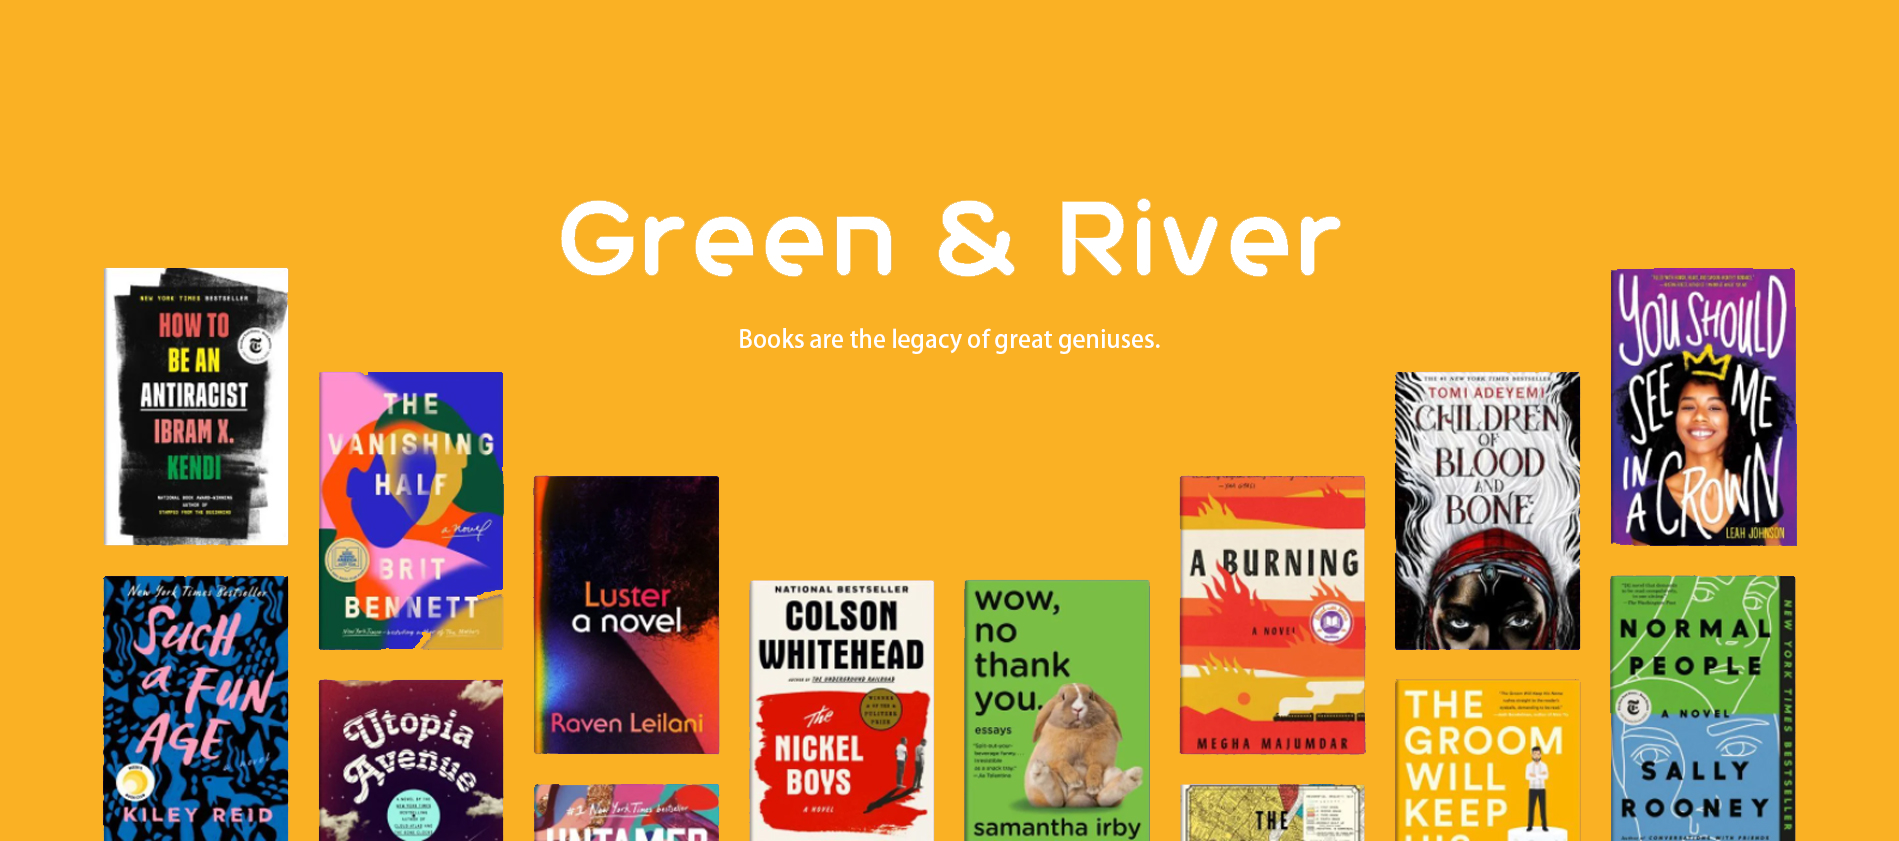
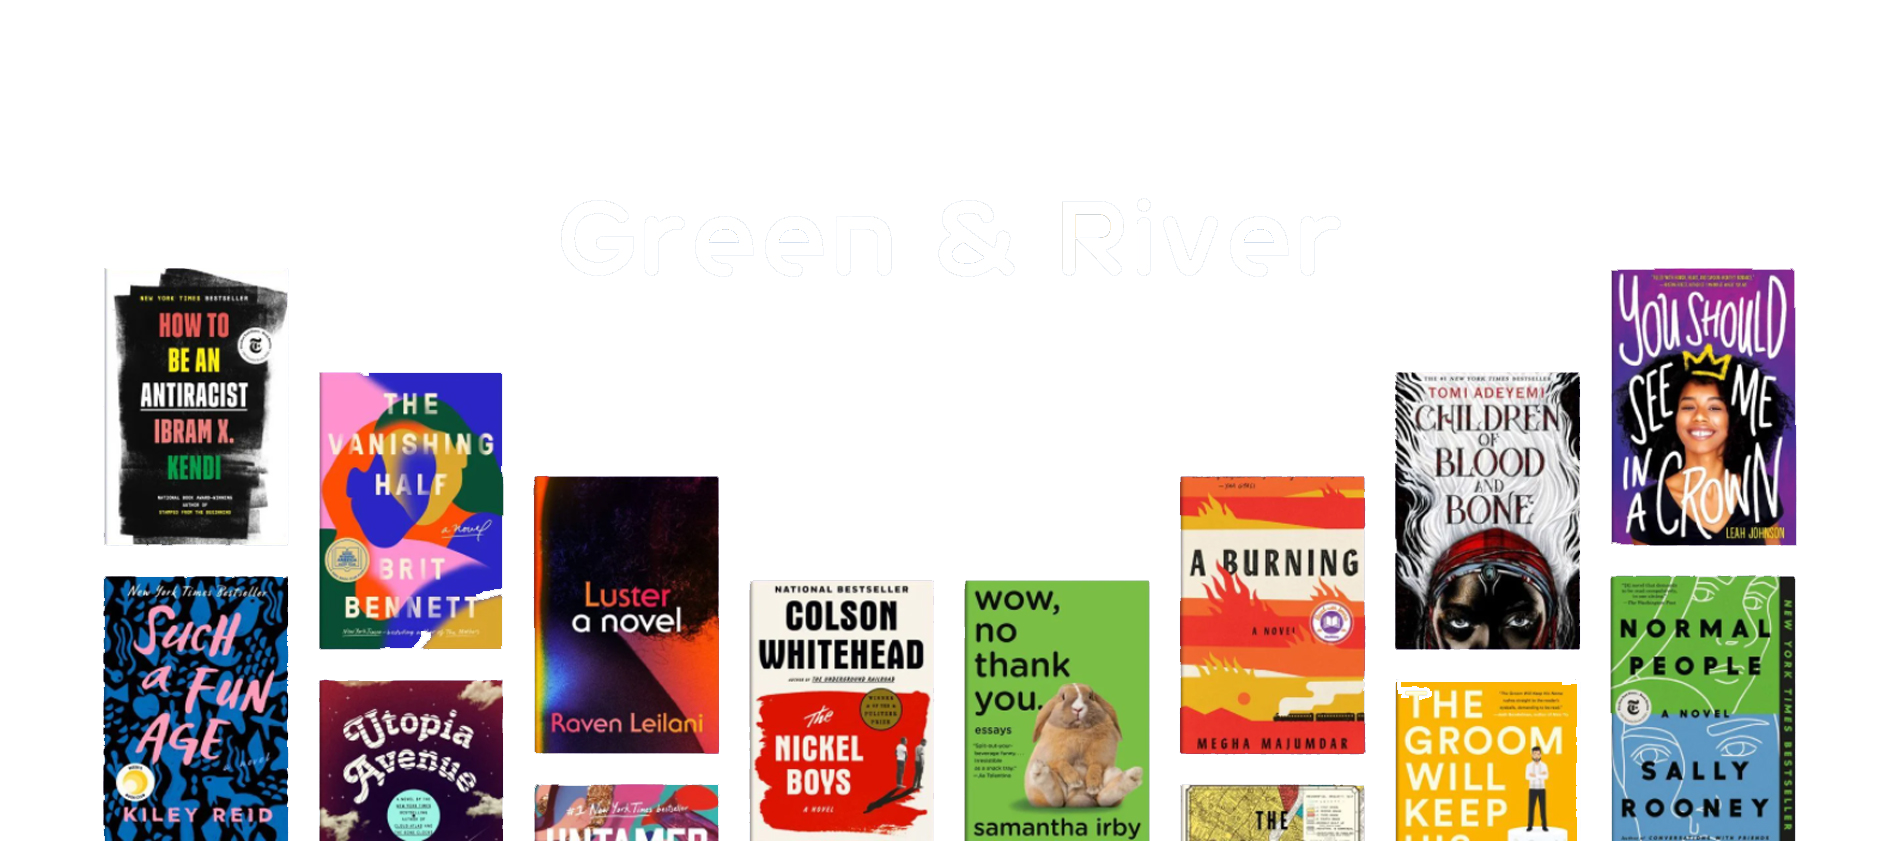
little

diff --git a/public/css/app.css b/public/css/app.css
@@ -74,6 +74,26 @@ color: aqua;
   left:0px;
   padding-top: 20px;
 }
+
+.icon {
+  padding: 10px;
+  background: dodgerblue;
+  color: white;
+  min-width: 50px;
+  text-align: center;
+}
+
+.input-field {
+  width: 100%;
+  padding: 20px;
+  margin-top: 14px;
+  outline: none;
+}
+
+.input-field:focus {
+  border: 2px solid dodgerblue;
+}
+
  .fa {
   padding: 5px;
   font-size: 30px;
@@ -81,18 +101,24 @@ color: aqua;
   text-align: center;
   text-decoration: none;
   margin: 5px 2px;
-  color:#fab124;
+
 }
 .fa-search{
   display: row;
 }
-.fa-instagram {
- 
-  color: #fab124;
+.fa-twitter{
+color:#6faddf;
+}
+
+.fa-google-plus{
+color:#ffffff;
+}
+.fa-youtube{
+color:#d0211c;
 }
 .fa-facebook {
  
-  color: #fab124;
+color:#3e58ee;
 }
 :root {
   --blue: #3490dc;
@@ -152,6 +178,7 @@ section {
 }
 
 body {
+ 
   margin: 0;
   font-family: "Nunito", sans-serif;
   font-size: 0.9rem;
@@ -159,9 +186,12 @@ body {
   line-height: 1.6;
   color: #212529;
   text-align: left;
-  background-color: #fab124;  
+  background: linear-gradient(to right, cyan, blue);
+  color:transparent;
  
 }
+
+
 
 [tabindex="-1"]:focus:not(:focus-visible) {
   outline: 0 !important;
@@ -661,6 +691,7 @@ pre code {
 }
 
 
+
 .container,
 .container-fluid,
 .container-xl,
@@ -672,6 +703,7 @@ pre code {
   padding-left: 15px;
   margin-right: auto;
   margin-left: auto;
+  
 }
 
 @media (min-width: 576px) {
@@ -4604,6 +4636,7 @@ input[type=button].btn-block {
   align-items: center;
   justify-content: space-between;
   padding: 0.5rem 1rem;
+  
 }
 
 .navbar .container,
@@ -4616,16 +4649,18 @@ input[type=button].btn-block {
   flex-wrap: wrap;
   align-items: center;
   justify-content: space-between;
+  
 }
 
 .navbar-brand {
   display: inline-block;
   padding-top: 0.32rem;
-  padding-bottom: 0.32rem;
+  padding-bottom: 0.25rem;
   margin-right: 1rem;
   font-size: 1.125rem;
   line-height: inherit;
   white-space: nowrap;
+  
 }
 
 .navbar-brand:hover,
@@ -4644,6 +4679,7 @@ input[type=button].btn-block {
 .navbar-nav .nav-link {
   padding-right: 0;
   padding-left: 0;
+  font-size: 20px;
 }
 
 .navbar-nav .dropdown-menu {
@@ -8763,7 +8799,7 @@ button.bg-dark:focus {
 
 .pb-4,
 .py-4 {
-  padding-bottom: 1.5rem !important;
+  padding-bottom: 0.2rem !important;
 }
 
 .pl-4,

diff --git a/public/css/product.css b/public/css/product.css
@@ -6,7 +6,7 @@ body {
 
 	font-size: 20px;
 	line-height: 1.4em; 
-	background-color: #fab124; 
+	background-color: #4287f5; 
 
 	background-position: top;
 }
@@ -53,7 +53,7 @@ table, th{
   }
 
   .bb{
-	  background-color: #fab124;
+	  background-color: #4287f5;
   }
 
   

diff --git a/resources/views/auth/login.blade.php b/resources/views/auth/login.blade.php
@@ -11,12 +11,13 @@
                     <form method="POST" action="{{ route('login') }}">
                         @csrf
 
-                        <div class="form-group row">
-                            <label for="email" class="col-md-4 col-form-label text-md-right">{{ __('E-Mail Address') }}</label>
+                        <div class="form-group row input-container">
+                            <label for="email" class="col-md-4 col-form-label text-md-right"><i class="fa fa-user icon"></i></label>
 
-                            <div class="col-md-6">
-                                <input id="email" type="email" class="form-control @error('email') is-invalid @enderror" name="email" value="{{ old('email') }}" required autocomplete="email" autofocus>
-
+                            <div class="col-md-6 input-container">
+                               
+                            <input id="email" class="input-field form-control @error('email') is-invalid @enderror" type="email" placeholder="Email Address" name="email" value="{{ old('email') }}" required autocomplete="email" autofocus>
+                          
                                 @error('email')
                                     <span class="invalid-feedback" role="alert">
                                         <strong>{{ $message }}</strong>
@@ -25,12 +26,13 @@
                             </div>
                         </div>
 
-                        <div class="form-group row">
-                            <label for="password" class="col-md-4 col-form-label text-md-right">{{ __('Password') }}</label>
-
-                            <div class="col-md-6">
-                                <input id="password" type="password" class="form-control @error('password') is-invalid @enderror" name="password" required autocomplete="current-password">
-
+                        <div class="form-group row input-container">
+                            <label for="password" class="col-md-4 col-form-label text-md-right"><i class="fa fa-key icon"></i></label>
+                            
+   
+                            <div class="col-md-6 input-container">
+      
+                                <input id="password" class="input-field form-control @error('password') is-invalid @enderror" type="password" placeholder="Password" name="password" required autocomplete="current-password">
                                 @error('password')
                                     <span class="invalid-feedback" role="alert">
                                         <strong>{{ $message }}</strong>

diff --git a/resources/views/layouts/app.blade.php b/resources/views/layouts/app.blade.php
@@ -27,12 +27,12 @@
 
 
 <body>
-    <div id="app">
-        <nav class="navbar navbar-expand-md bg-dark navbar-dark shadow-sm">
-            <div class="container-fluid">
+    <div id="app" class="">
+        <nav class=" navbar navbar-expand-md bg-dark navbar-dark shadow-sm" >
+            <div class="container-fluid toop">
                 <a class="navbar-brand" href="{{url('/')}}">
-                    <img src="{{ asset('images/icon.png')}}" width="30" height="30" class="d-inline-block align-top" alt="">
-                    BookShop
+                    <img src="{{ asset('images/icon.png')}}" width="35" height="35" class="d-inline-block align-top" alt="">
+                    &nbsp; BookShop
                 </a>
                 <button class="navbar-toggler" type="button" data-toggle="collapse" data-target="#navbarSupportedContent" aria-controls="navbarSupportedContent" aria-expanded="false" aria-label="{{ __('Toggle navigation') }}">
                     <span class="navbar-toggler-icon"></span>
@@ -140,6 +140,7 @@
         </main>
     </div>
 </body>
+
 <footer class="footer">
       <div class="footer-content">
       <br>
@@ -147,10 +148,10 @@
           <p>Paragraph for Green&River Book Shop(still havent idea)</p>
           <p>Email  :goh09282000@gmail.com</p>
           <ul class="socials">
-              <li>   <a href="#"><i  class="fa fa-facebook"></i></a></li>
-              <li>   <a href="#"><i  class="fa fa-twitter"></i></a></li>
-              <li>   <a href="#"><i  class="fa fa-google-plus" ></i></a></li>
-              <li>   <a href="#"><i  class="fa fa-youtube"></i></a></li>
+              <li>   <a href="https://www.facebook.com/"><i  class="fa fa-facebook"></i></a></li>
+              <li>   <a href="https://twitter.com/?lang=en"><i  class="fa fa-twitter"></i></a></li>
+              <li>   <a href="https://mail.google.com/mail/u/0/?tab=wm#inbox"><i  class="fa fa-google-plus" ></i></a></li>
+              <li>   <a href="https://www.youtube.com/watch?v=kul-g_30HuU&t=10s"><i  class="fa fa-youtube"></i></a></li>
 </ul>
       </div>
 

diff --git a/resources/views/layouts/app2.blade.php b/resources/views/layouts/app2.blade.php
@@ -1,0 +1,58 @@
+<!doctype html>
+<html lang="{{ str_replace('_', '-', app()->getLocale()) }}">
+<head>
+    <meta charset="utf-8">
+    <meta name="viewport" content="width=device-width, initial-scale=1">
+    <link rel="stylesheet" href="https://cdnjs.cloudflare.com/ajax/libs/font-awesome/4.7.0/css/font-awesome.min.css">
+    <!-- CSRF Token -->
+    <meta name="csrf-token" content="{{ csrf_token() }}">
+
+    <title>BookShop</title>
+
+    <!-- Scripts -->
+    <script src="{{ asset('js/app.js') }}" defer></script>
+
+    <!-- Fonts -->
+    <link rel="dns-prefetch" href="//fonts.gstatic.com">
+    <link href="https://fonts.googleapis.com/css?family=Nunito" rel="stylesheet">
+    
+    <!-- Styles -->
+    <link href="{{ asset('css/app.css') }}" rel="stylesheet">
+ 
+
+</head>
+<div class="page-wrapper">
+    
+</div>
+
+
+<body>
+    <div id="app" class="">
+       
+
+        <main class="py-4">
+            @yield('content')
+        </main>
+    </div>
+</body>
+
+<footer class="footer">
+      <div class="footer-content">
+      <br>
+          <h3>Green&River Book Shop</h3>
+          <p>Paragraph for Green&River Book Shop(still havent idea)</p>
+          <p>Email  :goh09282000@gmail.com</p>
+          <ul class="socials">
+              <li>   <a href="https://www.facebook.com/"><i  class="fa fa-facebook"></i></a></li>
+              <li>   <a href="https://twitter.com/?lang=en"><i  class="fa fa-twitter"></i></a></li>
+              <li>   <a href="https://mail.google.com/mail/u/0/?tab=wm#inbox"><i  class="fa fa-google-plus" ></i></a></li>
+              <li>   <a href="https://www.youtube.com/watch?v=kul-g_30HuU&t=10s"><i  class="fa fa-youtube"></i></a></li>
+</ul>
+      </div>
+
+      <div class="footer-bottom">
+            &copy;Green&RiverBookShop | Designed by ShuLing and Zi Jiang
+      </div>
+
+</footer>   
+</html>

diff --git a/resources/views/userProduct.blade.php b/resources/views/userProduct.blade.php
@@ -1,15 +1,7 @@
 
-@extends('layouts.app')
-@section('content')
+
 
         <style>
-        .numbertext {
-  color: #f2f2f2;
-  font-size: 12px;
-  padding: 8px 12px;
-  position: absolute;
-  top: 0;
-}
 
 .row {
  display: table;
@@ -19,9 +11,9 @@
 
 
          </style>
-     
+     <body class="numbertext">
         <div >
-        <img src="{{ asset('images/back.png')}} " height="615px" width="100%">
+        <img src="{{ asset('images/back.png')}} " height="100%" width="100%">
         </div>
         <br>
 
@@ -43,6 +35,8 @@
       </div>
     </div>
 <br>
+@extends('layouts.app2')
+@section('content')
 <div ><h3 style="color:white;">&nbsp;&nbsp;&nbsp;&nbsp;Recommend</h3></div>
 
 <br>
@@ -60,5 +54,5 @@
 
 </div>
        
-      
+</body>
         @endsection('content')

diff --git a/resources/views/welcome.blade.php b/resources/views/welcome.blade.php
@@ -48,7 +48,7 @@ body {
 
 .ttext{
 color: #66aede;
-font-size: 26px;
+font-size: 22px;
 text-decoration: underline;
 }
 
